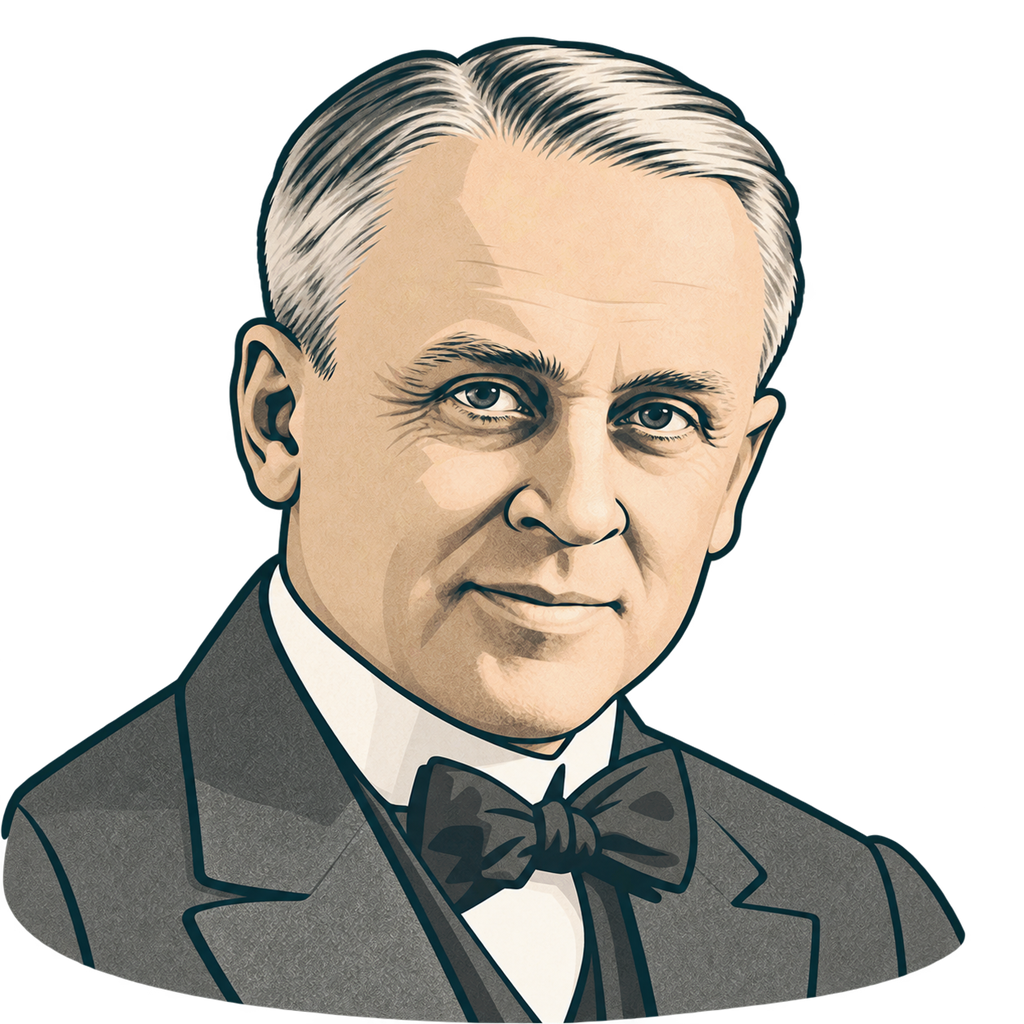
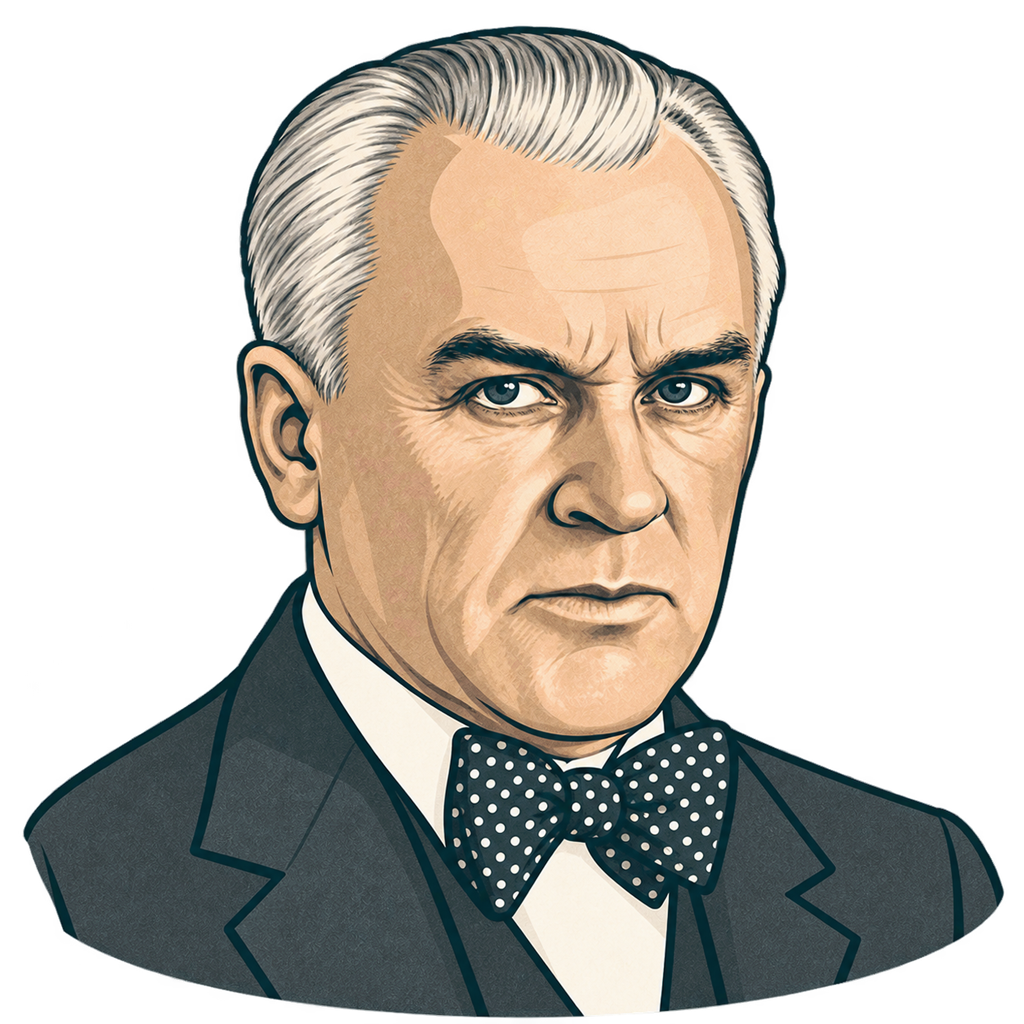
Replace Millikan portrait with Smithsonian image documenting US rights

diff --git a/docs/millikan-addition.md b/docs/millikan-addition.md
@@ -7,14 +7,12 @@ The discovery record already described Millikan's 1913 oil-drop result but had n
 - [Nobel biography](https://www.nobelprize.org/prizes/physics/1923/millikan/biographical/) and [National Academy of Sciences memoir](https://www.nasonline.org/wp-content/uploads/2024/06/millikan-robert.pdf): identity, life dates, American nationality, and academic appointments. The affiliation list covers Oberlin, Columbia, Chicago and Caltech; it does not attempt to list every visit or honorary association.
 - [Original 1913 journal record](https://journals.aps.org/pr/abstract/10.1103/PhysRev.2.109): *On the Elementary Electrical Charge and the Avogadro Constant*, Physical Review 2, 109–143.
 - [Original 1916 journal record](https://journals.aps.org/pr/abstract/10.1103/PhysRev.7.355): *A Direct Photoelectric Determination of Planck's "h"*, Physical Review 7, 355–388.
-- [Photograph provenance and rights](https://commons.wikimedia.org/wiki/File:Millikan.jpg): Nobel Foundation, 1923, marked public domain under PD-Sweden. The original 1692×2048 JPEG was cropped to a square and reduced to 640×640 for `images/millikan.jpg`.
+- [Photograph provenance and U.S. rights](https://library.si.edu/image-gallery/73673): Smithsonian Libraries and Archives, *Portrait of Robert Andrews Millikan*, identifier `DAMS:SIL-SIL14-m004-03`, explicitly marked **No Copyright – United States**. The [institutional reuse explanation](https://library.si.edu/copyright) explains this rights statement. Courtesy of the Smithsonian Libraries and Archives. Photographer and historical photograph date are not supplied. The original 1274×2000 JPEG was resized without stretching and padded on white to 640×640. This replaces the former Nobel Foundation photograph, whose cited page supplied only a Swedish rights rationale.
 
 ## Illustration
 
-Built-in image generation used the prepared photograph as the identity reference and `rutherford.png`, `bohr.png`, and `alfven.png` as style references. The original generated PNG is retained outside the repository. Its 1254×1254 output was normalized with the repository's approved deterministic finisher; it removed zero background pixels. The final `images/cartoons/millikan.png` passes the alpha and 1024×1024 validation.
+Built-in image generation used the verified Smithsonian photograph as the identity reference and `rutherford.png`, `bohr.png`, and `alfven.png` as style references. The former illustration was replaced rather than retained as an adaptation of the superseded photograph. The new source's characteristic swept silver hair, strong brow and spotted bow tie guide its likeness.
 
-Exact generation prompt:
+The original generated PNG is retained outside the repository. Its 1254×1254 output was normalized with the repository's approved deterministic finisher, which removed zero background pixels. The final `images/cartoons/millikan.png` passes the alpha and 1024×1024 validation. Three-way source/before/after review, dark/light proof, and 92px colour / 42px grayscale circular crops were inspected. Both WebP thumbnails were regenerated from the replacement masters.
 
-```text
-Use case: style-transfer. Asset type: Paper Trails circular timeline portrait. Image 1 is the identity reference of Robert Andrews Millikan, the American experimental physicist (1868–1953); images 2–4 are approved house-style examples, NOT identity references. Create ONE newly drawn 1024x1024 head-and-shoulders editorial caricature of Millikan. Recognition anchors: broad oval clean-shaven face with a rounded strong chin, neatly side-parted silver-grey hair and high forehead, slightly asymmetrical small knowing smile with soft direct eyes; retain his dark bow tie and early-1920s suit. Affectionate restrained humour only in the wry smile and modestly oversized bow tie; no additional prop. Wry Engraver house style: near-black charcoal-teal bold ink contours, simplified graphic shapes, modest 10% caricature, flat restrained colour with at most one shallow shadow, faint paper grain inside shapes. Natural light skin undertones, NOT yellow, bronze, orange or globally sepia. Centered bust with hair beginning at 8% from top and shoulders at bottom, all facial features inside central 76%, safe for 42px grayscale and 92px colour circular crops. Match the rutherford, bohr and alfven references in contour weight, silhouette and graphic simplicity. Background: genuine alpha transparency; empty pixels outside the bust; never draw or depict a checkerboard, transparency grid, studio backdrop, halo, or background colour. Output 1024x1024 PNG with real alpha. No captions, labels, text, equations, logos, watermarks, floating apparatus or full-body pose. Do not colourise the photo or add photographic skin texture.
-```
+The [complete generation and preparation record](millikan-portrait-provenance.json) contains the exact prompt, source catalogue and original-download URLs, institutional rights statement, reference files and asset hashes. This records the Smithsonian's U.S. statement without inferring an unknown photographer, historical date or worldwide rights waiver.

diff --git a/images/ATTRIBUTION.md b/images/ATTRIBUTION.md
@@ -2,7 +2,7 @@
 
 Portraits added for the discovery and conference scientist audit:
 
-- `millikan.jpg` is cropped and resized from the Nobel Foundation's 1923 photograph of Robert Andrews Millikan, marked public domain on Commons under its historical Swedish photograph terms (PD-Sweden). [Source and rights](https://commons.wikimedia.org/wiki/File:Millikan.jpg). `cartoons/millikan.png` is an AI-assisted illustrated adaptation in the Wry Engraver house style.
+- `millikan.jpg` is resized without stretching and padded to a square from Smithsonian Libraries and Archives' *Portrait of Robert Andrews Millikan*, identifier `DAMS:SIL-SIL14-m004-03`, explicitly marked **No Copyright – United States**. [Institutional source and rights](https://library.si.edu/image-gallery/73673), [reuse explanation](https://library.si.edu/copyright), [original image](https://ids.si.edu/ids/deliveryService?id=SIL-SIL14-m004-03). Courtesy of the Smithsonian Libraries and Archives. The catalogue supplies no photographer or historical photograph date; none is inferred. `cartoons/millikan.png` is a newly generated Wry Engraver illustration using this Smithsonian portrait, with the same documented U.S. source-rights basis. Both 192px WebP derivatives use the corresponding replacement masters. [Generation and preparation record](../docs/millikan-portrait-provenance.json).
 
 Portraits added for the Karlsruhe and periodic-table expansion:
 
